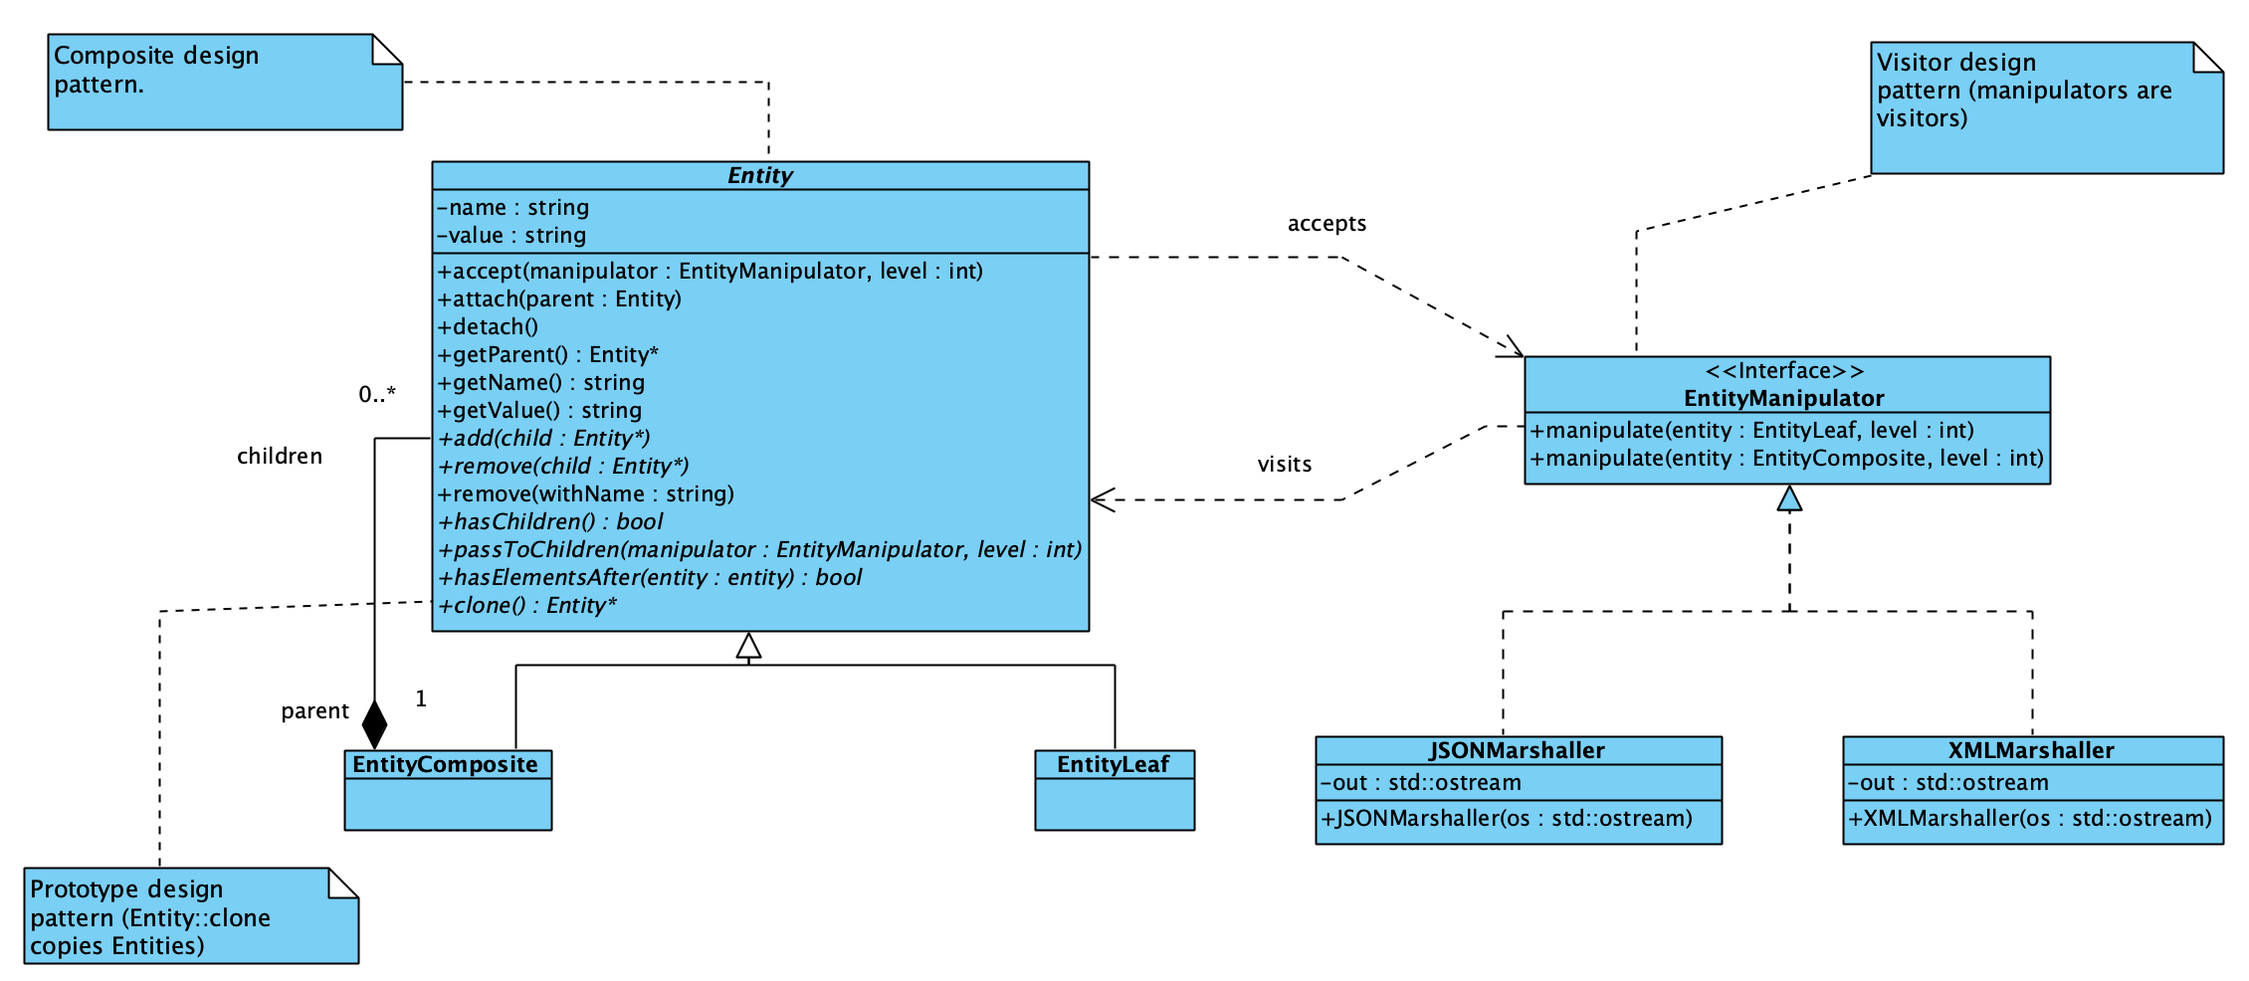
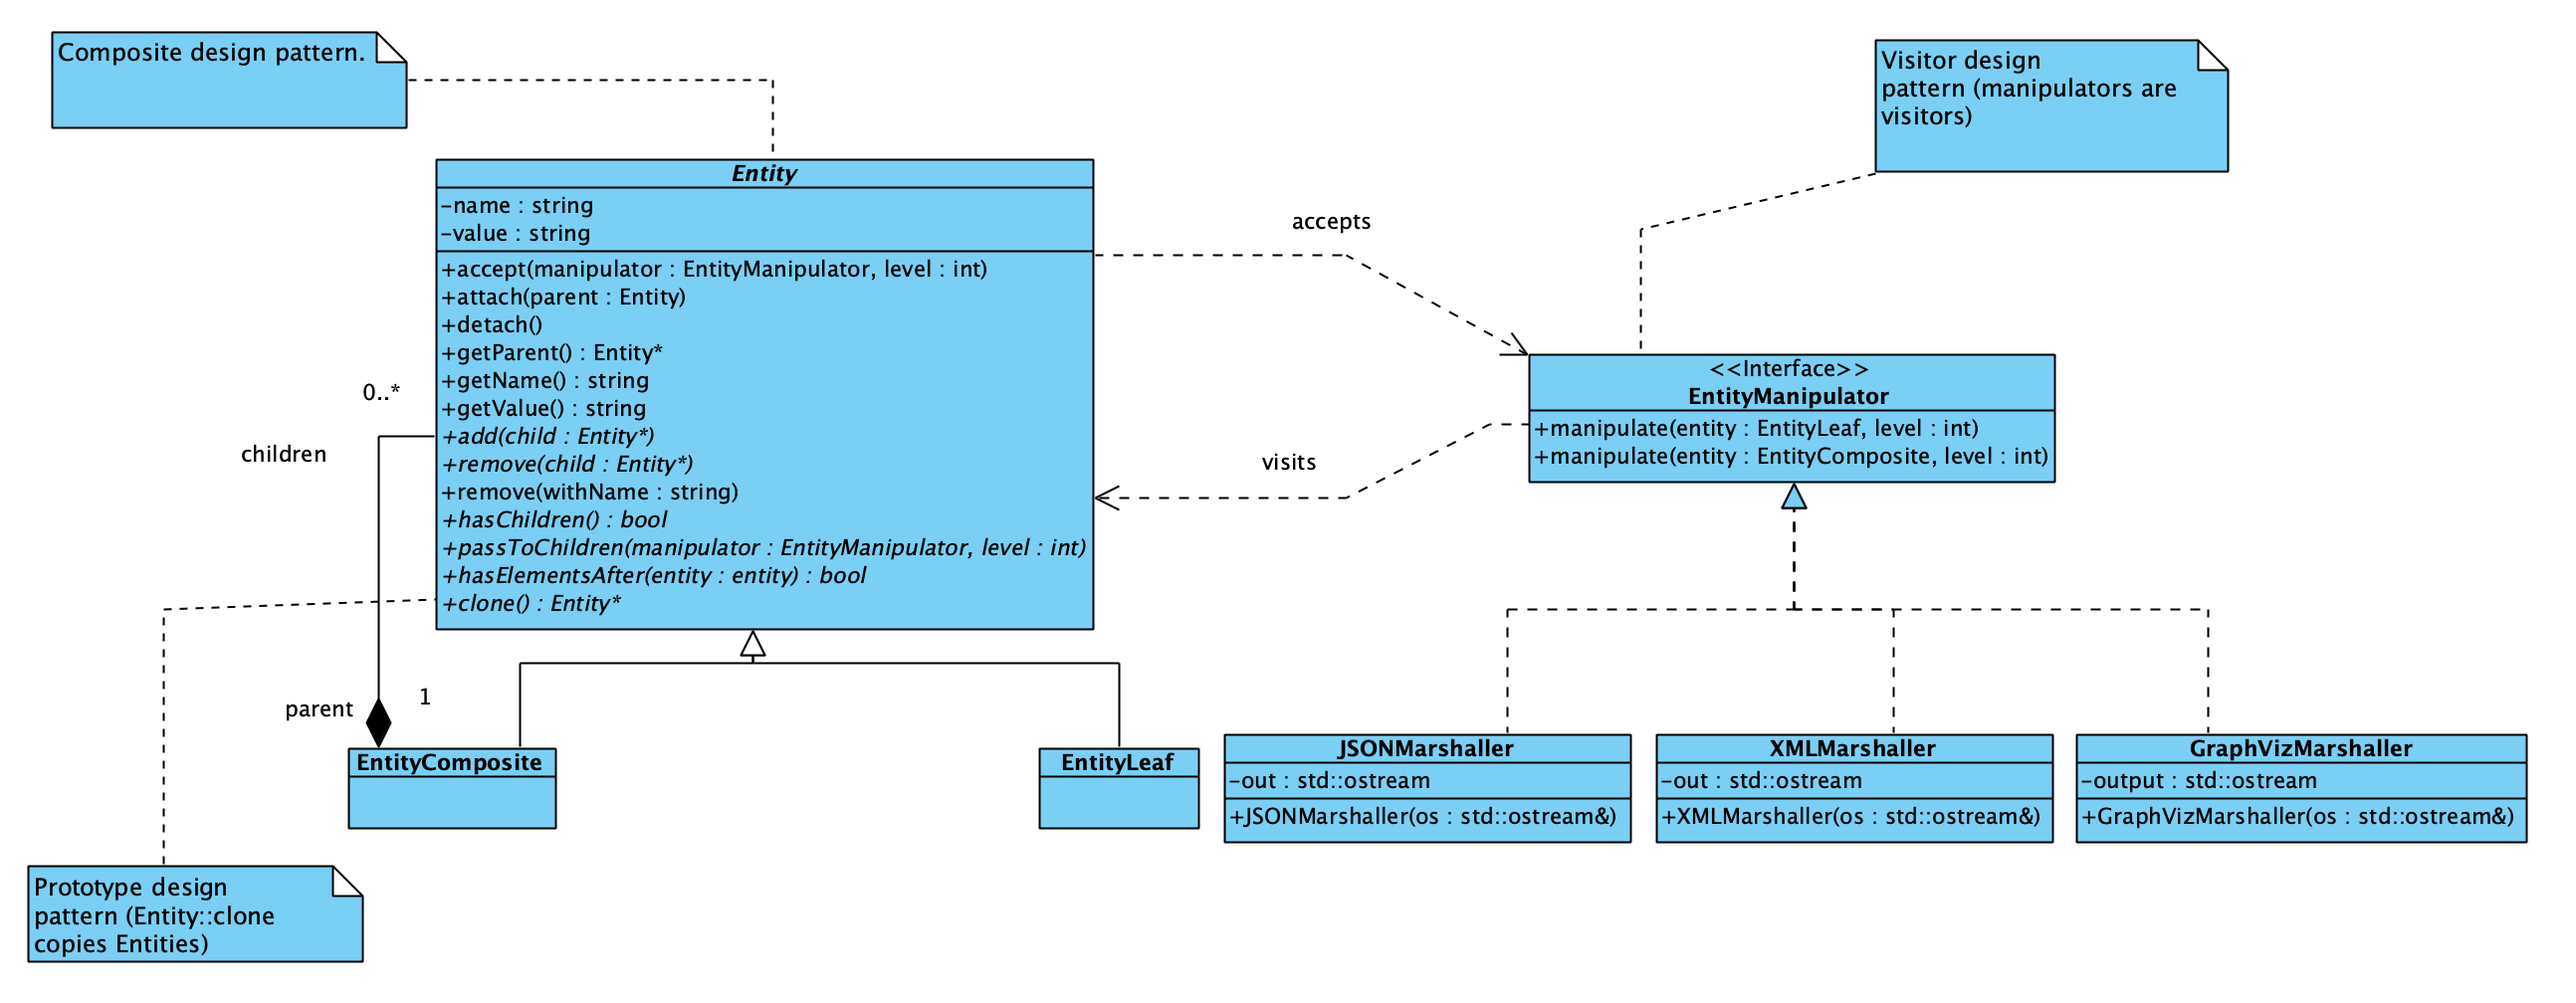
Updated docs to describe GraphViz manipulator addition to demo.

diff --git a/GraphVizMarshaller.cpp b/GraphVizMarshaller.cpp
@@ -11,25 +11,25 @@
 
 
 GraphVizMarshaller::GraphVizMarshaller(std::ostream & outputStream)
-: output(outputStream) {
-   output << "digraph EntityGraph {" << std::endl;
+: out(outputStream) {
+   out << "digraph EntityGraph {" << std::endl;
 }
 
 void GraphVizMarshaller::manipulate(EntityComposite & entity, int level) {
    Entity * parent = entity.getParent();
    if (nullptr != parent) {
-      output << " \"" << parent->getValue() << "\" -> \"" << entity.getValue() << "\"" << std::endl;
+      out << " \"" << parent->getValue() << "\" -> \"" << entity.getValue() << "\"" << std::endl;
    }
    entity.passToChildren(*this, level++);
    if (!parent) {
-      output << "}" << std::endl;
+      out << "}" << std::endl;
    }
 }
 
 void GraphVizMarshaller::manipulate(EntityLeaf & entity, int level) {
    Entity * parent = entity.getParent();
    if (nullptr != parent) {
-      output << " \"" << parent->getValue() << "\" -> \"" << entity.getValue() << "\"" << std::endl;
+      out << " \"" << parent->getValue() << "\" -> \"" << entity.getValue() << "\"" << std::endl;
    }
 }
 

diff --git a/GraphVizMarshaller.h b/GraphVizMarshaller.h
@@ -28,5 +28,5 @@ public:
    
 private:
    
-   std::ostream & output;
+   std::ostream & out;
 };

diff --git a/README.md b/README.md
@@ -6,7 +6,7 @@ See the included png file for the class diagram, and study the code to see how t
 
 ![UML class diagram](UML-class-diagram-of-EntityManipulator.png)
 
-In the `main.cpp` an object structure is created. Then code demonstrates two ways (JSON & XML) to externalize the object structure into a stream using *marshallers*. The object structure looks like this:
+In the `main.cpp` an object structure is created. Then code demonstrates three ways (JSON, XML, GraphViz DOT file) to externalize the object structure into a stream using *marshallers*. The object structure looks like this:
 
 ```
              customers
@@ -36,8 +36,16 @@ After installing the tools, do this in the project root directory:
 
 After this, you should have a binary executable EntityManipulatorExe in the build directory.
 
-You can then execute it and see the results:
+You can then execute it `./EntityManipulatorExe` and see the results (below). Additionally, the executable directory contains a `graph.gv` file containing a [GraphViz DOT](https://www.graphviz.org) file representation of the object structure. If you install GraphViz, you can run the DOT tool to view the graph, for example:
 
+```
+dot -Tpng graph.gv -ograph.png
+```
+Creating a png file which looks like this:
+
+![GraphViz generated png file](graph.png)
+
+Below you can see the output of the app when executed. 
 
 ```
 OY1902105:build juustila$ ./EntityManipulatorExe 
